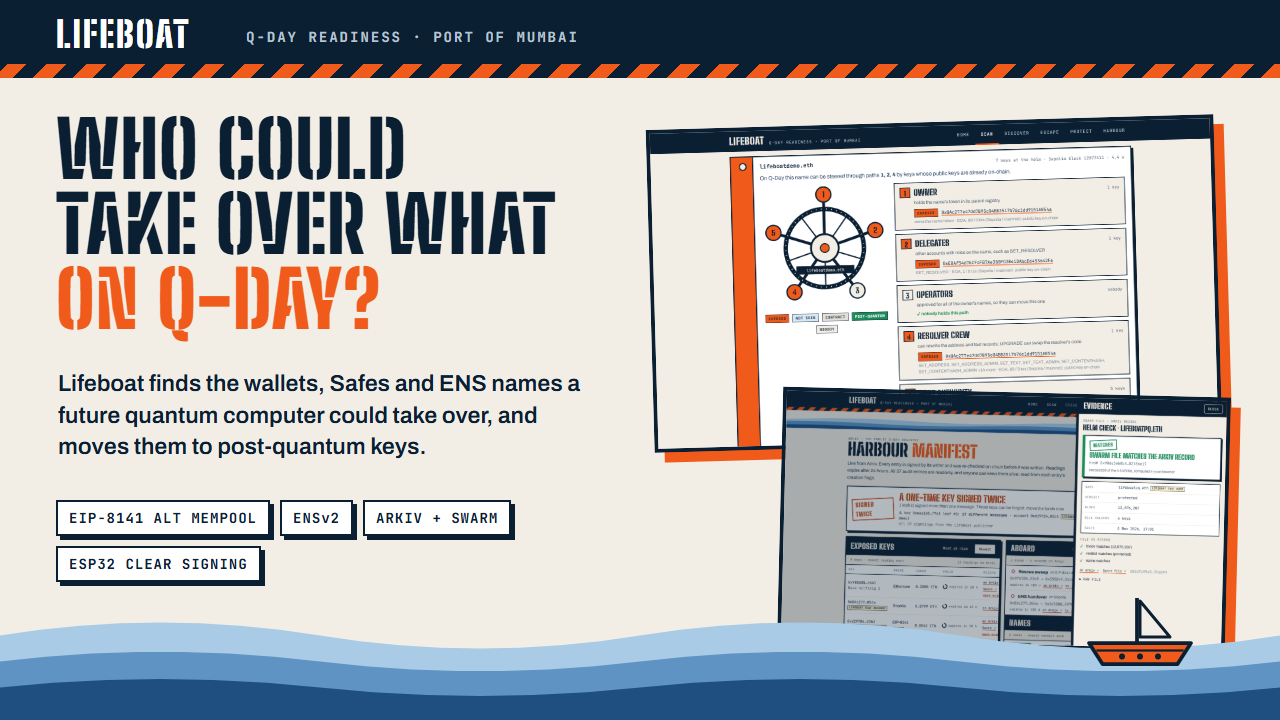
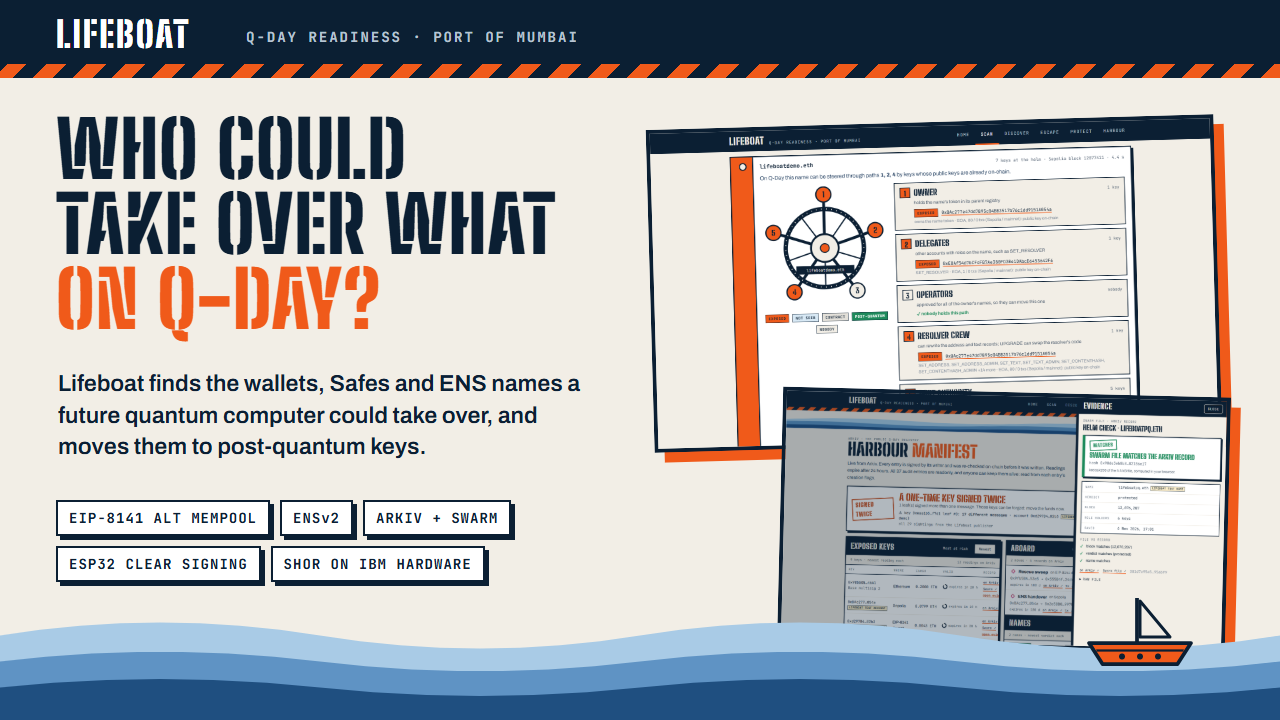
The IBM hardware result in the submission: description, how it's made, README, pitch, explainer, cover, and a video beat
The description now says the attack already works on a tiny test key (Shor's algorithm on ibm_fez turned a 2-bit public key into its private key) and that real 256-bit keys are out of reach today. How it's made gets a Quantum paragraph (Qiskit, Aer, Qiskit Runtime, the job's numbers). The cover gets a "Shor on IBM hardware" chip, and 08 is a screenshot of the quantum card.

Video: a beat after "The problem" shows the quantum card while one new line is read; it appears only when a verified IBM run is in evidence/quantum. voice.mjs writes the script lines to script.json so a line can be aligned before it was ever recorded, transcripts are cached per file, and --align-only stops after matching. The voiced gaps are a little tighter so the cut stays under 4:00. The video tools use video/.venv.

Changed region(s): [[0.1875, 0.7333, 0.4062, 0.825]]

diff --git a/video/src/transcribe_voice.py b/video/src/transcribe_voice.py
@@ -1,6 +1,7 @@
 """Transcribes the voice-over recordings offline (faster-whisper, word timings) for alignment and subtitles.
 Usage: python transcribe_voice.py <out.json> <part1> [part2 ...]   (the files are decoded with PyAV, 16 kHz mono)"""
 import json
+import os
 import sys
 
 import av
@@ -22,9 +23,21 @@ def load(path):
 
 
 out, parts = sys.argv[1], sys.argv[2:]
-model = WhisperModel("medium", device="cpu", compute_type="int8")
+# reuse the words of a recording that hasn't changed since the last run (same path, size and time)
+previous = {}
+if os.path.exists(out):
+    for e in json.load(open(out, encoding="utf-8")):
+        if "stamp" in e:
+            previous[e["file"]] = e
+stamp = lambda p: f"{os.path.getsize(p)}:{int(os.path.getmtime(p))}"
+model = None
 result = []
 for p in parts:
+    if p in previous and previous[p]["stamp"] == stamp(p):
+        result.append(previous[p])
+        print(f"{p}: unchanged, {len(previous[p]['words'])} words reused", flush=True)
+        continue
+    model = model or WhisperModel("medium", device="cpu", compute_type="int8")
     audio = load(p)
     segs, info = model.transcribe(audio, language="en", word_timestamps=True, vad_filter=True, beam_size=5,
                                   initial_prompt="Lifeboat, Q-Day, Ethereum, ENS v2, Safe, EIP-8141, Arkiv, Swarm, ESP32, post-quantum, lifeboathw.eth, lifeboatpq.eth")
@@ -32,7 +45,7 @@ for p in parts:
     for s in segs:
         for w in s.words:
             words.append({"w": w.word.strip(), "s": round(w.start, 3), "e": round(w.end, 3), "p": round(w.probability, 3)})
-    result.append({"file": p, "duration": len(audio) / 16000, "words": words})
+    result.append({"file": p, "stamp": stamp(p), "duration": len(audio) / 16000, "words": words})
     print(f"{p}: {len(words)} words: {' '.join(x['w'] for x in words)[:300]}", flush=True)
 json.dump(result, open(out, "w", encoding="utf-8"), indent=1)
 print("wrote", out)

diff --git a/video/src/voice_align.py b/video/src/voice_align.py
@@ -24,7 +24,9 @@ ROOT = sys.argv[1]
 CACHE = os.path.join(ROOT, "cache", "submission")
 RATE = 48000
 words_by_part = json.load(open(os.path.join(ROOT, "cache", "voice-words.json"), encoding="utf-8"))
-tl = json.load(open(os.path.join(CACHE, "timeline.json"), encoding="utf-8"))
+# the script's lines and beat titles: script.json (written by voice.mjs from submission.mjs), else the last recording
+SCRIPT_JSON = os.path.join(CACHE, "script.json")
+tl = json.load(open(SCRIPT_JSON if os.path.exists(SCRIPT_JSON) else os.path.join(CACHE, "timeline.json"), encoding="utf-8"))
 lines = tl["lines"]
 
 

diff --git a/docs/explainer.md b/docs/explainer.md
@@ -6,7 +6,7 @@ A plain-words walkthrough of every part of Lifeboat: what it does, how it works,
 
 - Your Ethereum **address** is a hash of your **public key**. While nobody has seen the public key, a quantum computer has nothing to attack.
 - **Every signature reveals the public key.** Anyone can recover it from the signature with `ecrecover`. Sending a transaction is one kind of signature. Signing for a multisig, a vote or an order is another.
-- A large enough quantum computer could turn a public key into its private key (Shor's algorithm). People call that day **Q-Day**. Nobody can do this today. Google's March 2026 estimate is about 1,200 logical qubits for an Ethereum key, far beyond current machines.
+- A large enough quantum computer could turn a public key into its private key (Shor's algorithm). People call that day **Q-Day**. At toy scale it already works: we ran Shor's algorithm on IBM's ibm_fez, and it turned a 2-bit public key into its private key ([quantum-demo.md](quantum-demo.md)). For a real key, nobody can do this today. Google's March 2026 estimate is about 1,200 logical qubits for an Ethereum key, far beyond current machines.
 - **So the exposure is already on-chain.** Lifeboat measures it, shows who could take over what on Q-Day, and gives each one a way out.
 
 The way out has three parts:
@@ -207,7 +207,7 @@ flowchart LR
 
 | Question | Answer |
 |---|---|
-| Can a quantum computer do this today? | No. These are readiness findings from public data. The deadlines are what make it urgent: NIST deprecates ECDSA after 2030 and disallows it after 2035 |
+| Can a quantum computer do this today? | At toy scale, yes: IBM's ibm_fez returned our 2-bit test key from its public key. A real 256-bit key, no: that needs about 1,200 error-corrected logical qubits. These are readiness findings from public data. The deadlines are what make it urgent: NIST deprecates ECDSA after 2030 and disallows it after 2035 |
 | Isn't a public exposure list a hit list? | We publish public infrastructure only (councils, bridges, DAOs), truncate signer addresses, count individuals without naming them, and brief owners privately first. Everything shown is already public on-chain |
 | Why not just move to a fresh address? | A fresh address is safe only until it signs once. A real fix needs a quantum-safe signature scheme, and names and Safes need their *control* moved, not just their funds |
 | How accurate is the detection? | It's a lower bound across the channels we list. Executions routed through other contracts (1–4%) are skipped. Anyone can check the proof drawer's key against Etherscan |

diff --git a/docs/submission.md b/docs/submission.md
@@ -16,7 +16,7 @@ Finds wallets, Safes and ENS names exposed to Q-Day, and moves them to post-quan
 
 ## Description
 ```
-Every time you sign anything on Ethereum, your public key goes on-chain, and a future quantum computer could turn that public key into your private key. No quantum computer can do this today; Lifeboat is about getting ready.
+Every time you sign anything on Ethereum, your public key goes on-chain, and a future quantum computer could turn that public key into your private key. On a tiny test key, that attack already works: Shor's algorithm on a real IBM quantum computer (ibm_fez) turned a 2-bit public key into its private key. Real Ethereum keys have 256 bits, and no quantum computer can break one today. Lifeboat is about getting ready.
 
 Lifeboat shows who could take over what, then gets them out:
 
@@ -49,6 +49,8 @@ Hardware: ESP32 firmware in portable C++ (Keccak, WOTS+C, an RLP/ABI decoder for
 Arkiv (@arkiv-network/sdk 1.0.1): six schemas, readonly + permissionless-extension audit records, an open one-time-key ledger that flags "signed twice", records updated in place (patch + extend in one executeBatch), count queries, keyset paging and keyless reads. Swarm: our own Bee 2.8.3 light node in Docker uploads the evidence; records carry swarmRef + evidenceHash, and the app re-hashes the file in the browser.
 
 App: Vite + React + viem on Vercel with a strict CSP, EIP-6963 wallet discovery and per-tab error boundaries. An end-to-end Playwright test drives the Protect tab with a scripted wallet on Sepolia.
+
+Quantum: Shor's algorithm for the elliptic-curve discrete log in Qiskit, on toy curves with 2- and 3-bit keys. The point-addition gates are compiled from the toy curve's addition table, run on Qiskit Aer (ideal, and IBM's Torino noise model), then on real IBM hardware through Qiskit Runtime. On ibm_fez (Heron, 156 qubits) the 2-bit key came back right: k = 3 with 1,333 of 1,942 votes (69%; 25% by chance), 46 two-qubit gates, 3 s of QPU time, job dbmtusm74qds73dsvrf0. The raw counts are in the repo, and the Discover tab draws them.
 ```
 
 ## Links
@@ -67,7 +69,7 @@ App: Vite + React + viem on Vercel with a strict CSP, EIP-6963 wallet discovery 
 | Web frameworks | React, Vite |
 | Databases | Arkiv (type it if it isn't listed); storage: Swarm |
 | Design tools | none |
-| Other | ENSv2, Safe, ESP32 (Arduino), Web Serial, Docker, Playwright, Qiskit, WOTS+C |
+| Other | ENSv2, Safe, ESP32 (Arduino), Web Serial, Docker, Playwright, Qiskit, IBM Quantum (ibm_fez), WOTS+C |
 
 ## Prizes
 - **Finalist + partner prizes**, with these three partner picks:

diff --git a/README.md b/README.md
@@ -2,7 +2,7 @@
 
 **A future quantum computer can take over any wallet whose public key is on-chain, and every signature puts it there, not just sending a transaction. Lifeboat shows who could take over what on Q-Day, and gives each one a way out.**
 
-Built from scratch at ETHGlobal Mumbai (5–7 Nov 2026). No quantum computer can do this today: these are readiness findings from public on-chain data.
+Built from scratch at ETHGlobal Mumbai (5–7 Nov 2026). On a tiny test key, the attack already works: Shor's algorithm on a real IBM quantum computer turned a 2-bit public key into its private key ([how](docs/quantum-demo.md)). Real keys have 256 bits, and no quantum computer can break one today: these are readiness findings from public on-chain data.
 
 **Live demo: https://lifeboat-mu.vercel.app** · the landing page explains it in a minute; then scan any address, or any ENSv2 name on Sepolia.
 
@@ -10,7 +10,7 @@ New here? Start with [Lifeboat, explained](docs/explainer.md) (every part in pla
 
 | | What | Where it runs |
 |---|---|---|
-| **Discover** | Hidden exposure: keys revealed by multisig signatures, which a nonce check never sees | Ethereum mainnet (live, in the browser) |
+| **Discover** | Hidden exposure: keys revealed by multisig signatures, which a nonce check never sees; and the attack itself, Shor's algorithm on real IBM hardware turning a toy public key into its private key | Ethereum mainnet (live, in the browser) |
 | **Scan** | Exposure of any address on 6 chains; a **deep scan of any Safe** (every signer recovered from its own signatures); the **Helm check** of any ENSv2 name across 5 control paths, proven complete | Ethereum mainnet, Sepolia ENSv2 |
 | **Escape** | A post-quantum (WOTS+C) account on EIP-8141; a staked **rescue paymaster** for wallets with no ETH; the **forgery** a reused one-time key allows | EIP-8141 alt-mempool devnet (chain 1337) |
 | **Protect in place** | **Quantum Guard**: a post-quantum co-signer for an existing Safe (transactions + ERC-1271), lost-key recovery the PQ key can veto, a factory, a one-transaction install. The app's **Protect** tab installs and co-signs on any Sepolia Safe | Safe 1.4.1 on Sepolia |

diff --git a/docs/pitch.md b/docs/pitch.md
@@ -7,12 +7,13 @@ No quantum computer can do this today. Everything below is a readiness finding f
 
 ## 30 seconds (booth, elevator)
 > Every signature you make on Ethereum puts your public key on-chain. A future quantum computer could turn that public key into your private key.
+> On a tiny test key, that already works: we ran it on a real IBM quantum computer, and it returned the private key.
 > Lifeboat finds what's exposed. That includes keys that never sent a transaction but signed for a multisig: 13 of 13 on Optimism's Security Council.
 > Then it gets you out: a post-quantum account on EIP-8141, a guard for Safes you already have, and a safe handover for ENS names.
 > Your new key lives on a small device. It shows every request in plain words and only signs after you press its button.
 
 ## 2 minutes (judges)
-1. **The problem, in one fact.** Your public key goes on-chain the moment you sign anything. Multisig signers publish theirs every time they sign. Optimism's Security Council has **13 of 13** signer keys public once you count signatures, not 4. Base's nested council goes from 0 to 11.
+1. **The problem, in one fact.** Your public key goes on-chain the moment you sign anything. Multisig signers publish theirs every time they sign. Optimism's Security Council has **13 of 13** signer keys public once you count signatures, not 4. Base's nested council goes from 0 to 11. And the attack is real at toy scale: on IBM's **ibm_fez**, Shor's algorithm returned our 2-bit test key from its public key (69% of the votes, 25% by chance).
 2. **Names too.** Across 1,011 real ENSv2 names on Sepolia (one per owner), **902 can be steered on Q-Day, 863 of them through their resolver.** That second path is the trap: you can move the name and still leave the resolver in the old key's hands.
 3. **Get out, three ways:**
    - **Escape:** a WOTS+C post-quantum account checked inside an EIP-8141 frame transaction, **52,367 gas**. A wallet with tokens but no ETH escapes too: a staked paymaster pays the gas and is repaid in USDC in the same transaction. Only the alternative mempool admits that, and we show all three answers live.

diff --git a/docs/ai-usage.md b/docs/ai-usage.md
@@ -22,7 +22,7 @@ ETHGlobal asks every team to say where and how AI tools were used. This file is 
 | ESP32 firmware (`firmware/esp32`) | Written with AI assistance | The crypto core is compiled on the host and checked byte for byte against the TypeScript signer (`tools/firmware-check.mjs`) |
 | Quantum Guard (`contracts/src/QuantumGuard.sol`, `scripts/src/quantum-guard.ts`) | Written with AI assistance | 9 Foundry tests with real WOTS+C signatures; a live run on a real Safe 1.4.1 on Sepolia (an owners-only payment refused on-chain, the co-signed one included) |
 | ENSv2 survey (`scripts/src/ens-survey.ts`) and Safe deep scan in the app | Written with AI assistance | Real names only (ours excluded), one per owner; checked in the browser against live Safes, wallets and contracts |
-| Toy Shor demo (`quantum/toy_ecdlp.py`) | Written with AI assistance | Ideal and noisy simulators recover the toy keys; the result is labelled as simulation |
+| Toy Shor demo (`quantum/toy_ecdlp.py`) | Written with AI assistance | Ideal and noisy simulators recover the toy keys. The team ran the hardware job on IBM's ibm_fez with its own IBM Quantum key (job `dbmtusm74qds73dsvrf0`, raw counts in `evidence/quantum/`), and it returned the 2-bit key. Each result is labelled simulation or hardware |
 | Video tooling (`video/`) and slides | Written with AI assistance: offline word-timing alignment (`transcribe_voice.py` + `voice_align.py`), audio cleanup (80 Hz high-pass, FFT noise reduction, loudness levelling), screen recording paced to the spoken lines (`record.mjs --voice`), real ESP32 phone footage compositing with live OLED screen tracking and burned-in subtitles (`hardware_insert.py`). No music: ETHGlobal asks for audio without music | The submission video's voice-over and the ESP32 hardware clip are recorded by the team. The voice is our own, cleaned and lined up but never sped up; the hardware clip, filmed on a phone, is 25 seconds inside the screen recording |
 | Docs | Drafted with AI, edited by the team | Numbers come only from our own runs or cited sources |
 

diff --git a/docs/demo-script.md b/docs/demo-script.md
@@ -27,6 +27,7 @@ Numbers are read from the evidence files when the video is made. No real person'
 | # | Screen | Say |
 |---|---|---|
 | 1 | Home | "Every time you sign anything on Ethereum, your public key goes on-chain. A future quantum computer could turn that public key into your private key. Lifeboat shows who could take over what on Q-Day, and gets them out. No quantum computer can do this today: this is about getting ready." |
+| 1b | Discover: Public key → private key, the 2-bit card on real hardware (ibm_fez) | "On a tiny test key, the attack already works: a real IBM quantum computer turned the public key into the private key." |
 | 2 | Discover | "Multisig signers publish their key every time they sign, even if they never send a transaction. Counting signatures, Optimism's Security Council goes from 4 to 13 of 13 public keys, and Base's nested council from 0 to 11." |
 | 3 | Scan → a security council | "This works for any Safe. Paste its address, and Lifeboat recovers every signer's key from the Safe's own signatures, live, in a few seconds." |
 | 4 | Scan → ENS name, survey line, then `lifeboatpq.eth` | "Names too. Lifeboat checks all five ways to control an ENS v2 name, and proves the list is complete. Across real names on Sepolia, one per owner, *N of M* can be steered on Q-Day, *K* of them through their resolver. Here's the way out, on our own test name: the registry refused a naive transfer, accepted our handover, and now a post-quantum wallet holds every path." |

diff --git a/docs/images/submission/README.md b/docs/images/submission/README.md
@@ -1,3 +1,3 @@
 # Images for the ETHGlobal submission
 
-Made by `video/src/submission-images.mjs` from the real app: `logo.png` (512×512), `cover.png` (1280×720) and screenshots `01`–`07` (1600×900; `07` is a frame from the submission video).
+Made by `video/src/submission-images.mjs` from the real app: `logo.png` (512×512), `cover.png` (1280×720) and screenshots `01`–`08` (1600×900; `07` is a frame from the submission video, `08` is the IBM quantum card).
